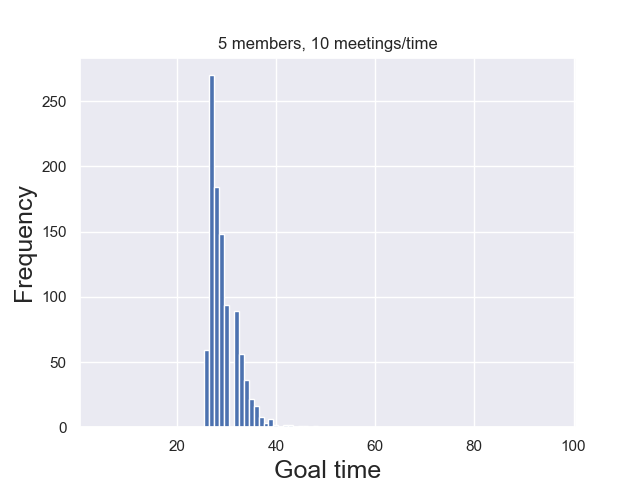
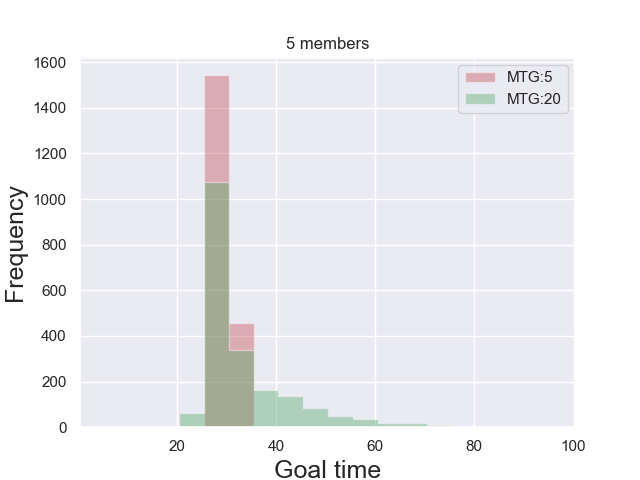
add AnaGoalTime ver3

diff --git a/AnaGoalTime.py b/AnaGoalTime.py
@@ -11,24 +11,30 @@ from tqdm import tqdm
 
 if __name__ == '__main__':
     num_member = 5
-    freq_meeting = 10
-    num_team = 1000
+    num_team = 2000
     
-    goal_data = [0] * num_team
-    
-    pbar = tqdm(range(len(goal_data)))
+    goal_data1 = [0] * num_team
+    goal_data2 = [0] * num_team
+
+    freq_meeting1 = 5
+    pbar = tqdm(range(len(goal_data1)))
     for i in pbar:
-        goal_data[i] = TPM.ProjectLocus(num_member, freq_meeting)._goal_time
-        
+        goal_data1[i] = TPM.ProjectLocus(num_member, freq_meeting1)._goal_time
+
+    freq_meeting2 = 20
+    pbar = tqdm(range(len(goal_data1)))
+    for i in pbar:
+        goal_data2[i] = TPM.ProjectLocus(num_member, freq_meeting2)._goal_time
+    
     sns.set()
     
-    plt.title('{} members, {} meetings/time'.format(num_member, freq_meeting))
+    plt.title('{} members'.format(num_member))
     plt.xlabel('Goal time',fontsize=18)
     plt.ylabel('Frequency',fontsize=18)
     plt.xlim(0.5, 100.5)
 
-    edges = [x+0.5 for x in range(101)]
-    plt.hist(goal_data, bins=edges)
-
-    #plt.show()
+    plt.hist(goal_data1, bins=20, alpha=0.4, histtype='stepfilled', color='r', label='MTG:{}'.format(freq_meeting1), range=(0.5, 100.5))
+    plt.hist(goal_data2, bins=20, alpha=0.4, histtype='stepfilled', color='g', label='MTG:{}'.format(freq_meeting2), range=(0.5, 100.5))
+    
+    plt.legend()
     plt.savefig('Result_AnaGoalTime.png')
